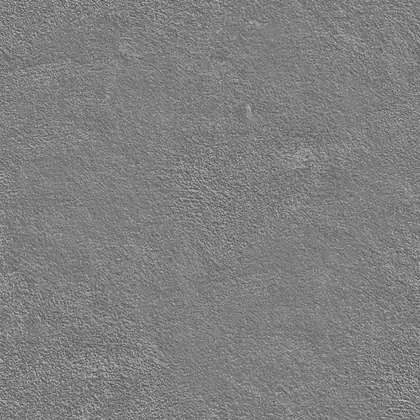
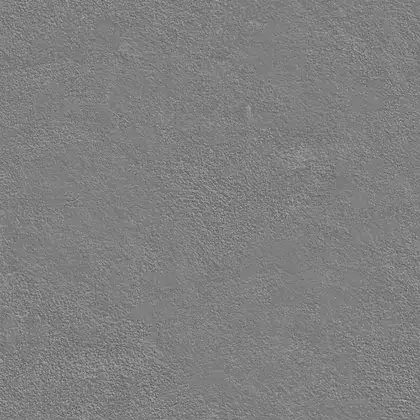
Textura só no fundo (carros sem textura), luzes amarelas pelo site todo e transição suave para o rodapé
Claude-Session: https://claude.ai/code/session_01SegUmpwDa4kvjfcHK4APPy

diff --git a/public/css/site.css b/public/css/site.css
@@ -815,3 +815,32 @@ body::before { opacity: .58; }
 .section::after { background: radial-gradient(26% 32% at 4% 18%, rgba(252, 211, 8, .09), transparent 70%), radial-gradient(24% 28% at 97% 82%, rgba(252, 211, 8, .08), transparent 70%); }
 .scene { background: transparent; }
 .scene-media { inset: -6% 0; -webkit-mask-image: linear-gradient(180deg, transparent 0%, transparent 9%, #000 38%, #000 66%, transparent 94%); mask-image: linear-gradient(180deg, transparent 0%, transparent 9%, #000 38%, #000 66%, transparent 94%); }
+/* Transição cena → rodapé sem degrau de cor */
+.site-footer { background: linear-gradient(180deg, var(--bg) 0%, var(--bg-2) 260px) !important; }
+.scene-media { -webkit-mask-image: linear-gradient(180deg, transparent 0%, transparent 9%, #000 38%, #000 60%, transparent 88%); mask-image: linear-gradient(180deg, transparent 0%, transparent 9%, #000 38%, #000 60%, transparent 88%); }
+/* Luzes amarelas espalhadas pelo fundo do site inteiro (rolam junto com a página) */
+main { position: relative; isolation: isolate; }
+main::before { content: ""; position: absolute; inset: 0; z-index: -2; pointer-events: none;
+  background:
+    radial-gradient(520px 420px at 8% 12%, rgba(252, 211, 8, .08), transparent 70%),
+    radial-gradient(600px 460px at 94% 22%, rgba(252, 211, 8, .07), transparent 70%),
+    radial-gradient(560px 440px at 20% 36%, rgba(252, 211, 8, .065), transparent 70%),
+    radial-gradient(640px 480px at 86% 48%, rgba(252, 211, 8, .075), transparent 70%),
+    radial-gradient(520px 420px at 6% 62%, rgba(252, 211, 8, .07), transparent 70%),
+    radial-gradient(600px 460px at 70% 74%, rgba(252, 211, 8, .06), transparent 70%),
+    radial-gradient(560px 440px at 30% 90%, rgba(252, 211, 8, .07), transparent 70%); }
+.site-footer::before { content: ""; position: absolute; inset: 0; pointer-events: none;
+  background: radial-gradient(520px 380px at 12% 40%, rgba(252, 211, 8, .06), transparent 70%), radial-gradient(520px 380px at 90% 70%, rgba(252, 211, 8, .06), transparent 70%); }
+
+/* Textura e grão agora ficam NO FUNDO da página (atrás do conteúdo), nunca por cima dos carros */
+body::before, body::after { content: none !important; display: none !important; }
+body { background: url("../img/textura.webp") 0 0 / 280px 280px repeat, var(--bg); background-blend-mode: soft-light, normal; }
+@media (max-width: 900px) { body { background-size: 200px 200px, auto; } }
+.hero, .scene { background: transparent !important; }
+.hero-light { background:
+    radial-gradient(30% 38% at 10% 16%, rgba(252, 211, 8, .12), transparent 70%),
+    radial-gradient(26% 32% at 94% 6%, rgba(252, 211, 8, .1), transparent 70%),
+    radial-gradient(40% 46% at 70% 60%, rgba(255, 255, 255, .06), transparent 70%),
+    radial-gradient(48% 26% at 68% 84%, rgba(252, 211, 8, .14), transparent 70%); opacity: 1; }
+.site-footer { background: transparent !important; }
+.section::after { content: none; }
